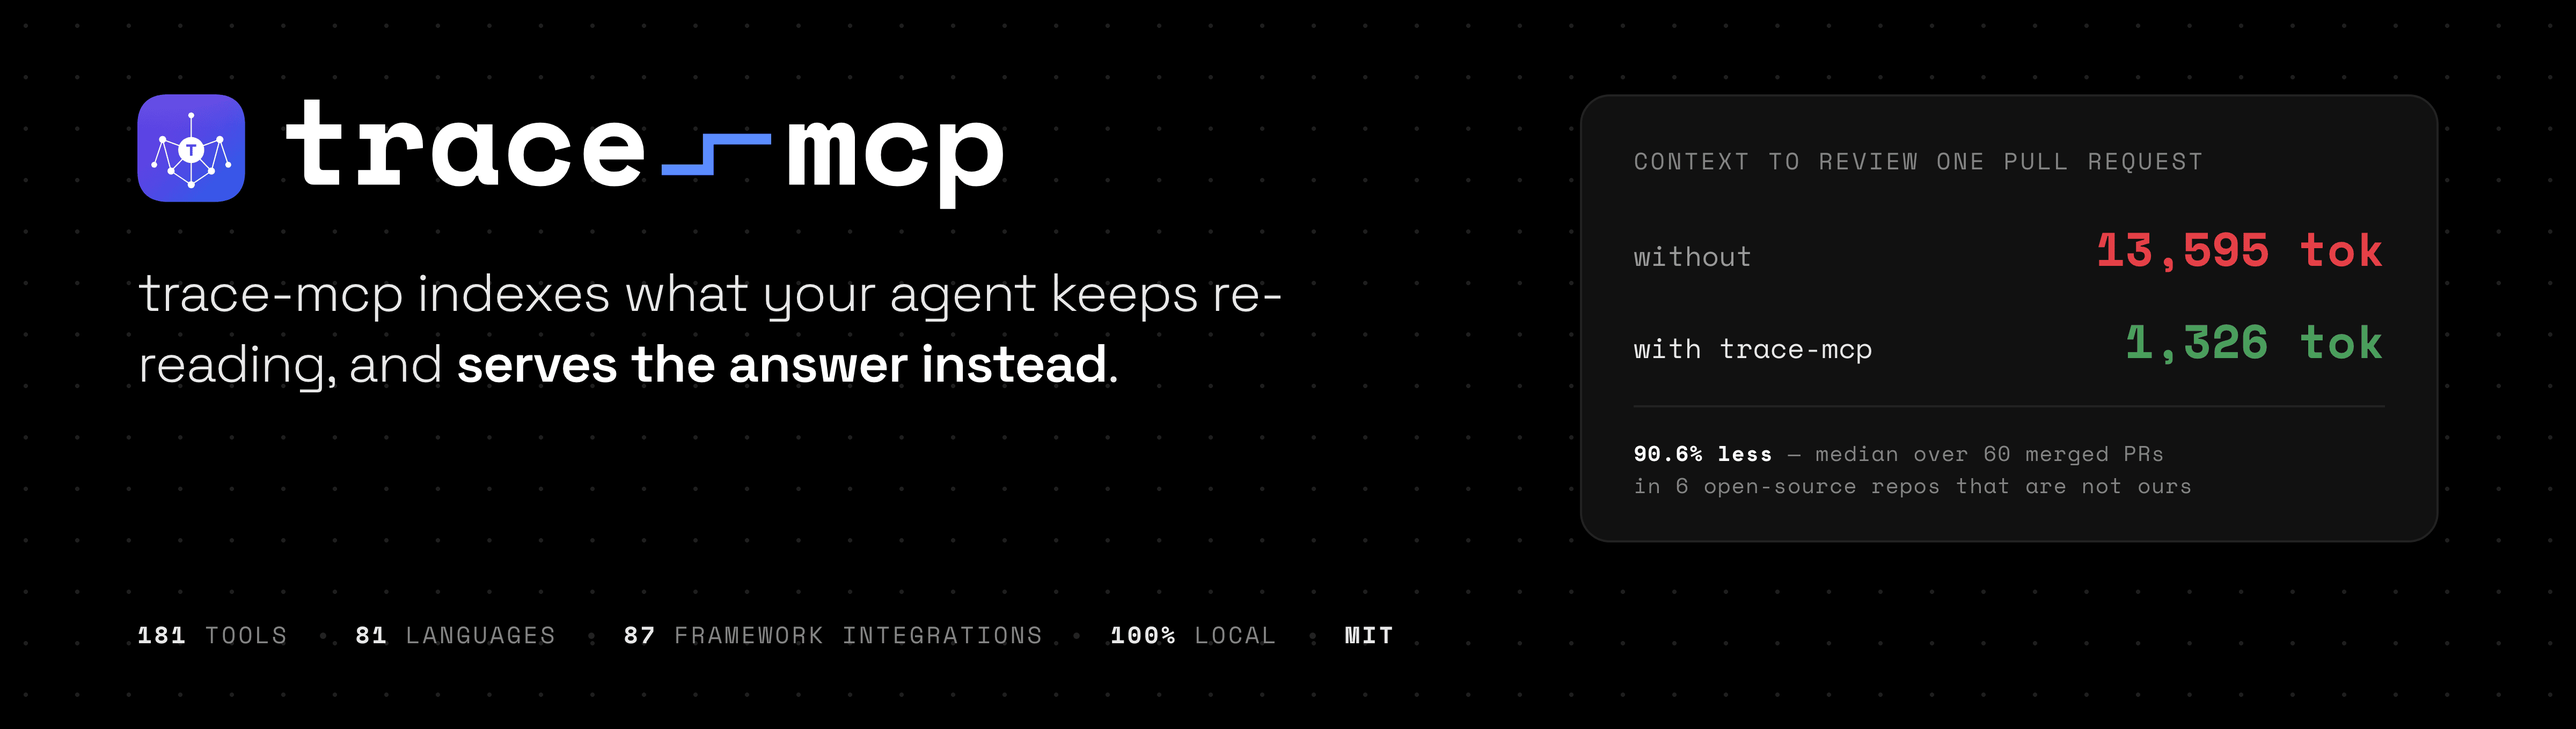
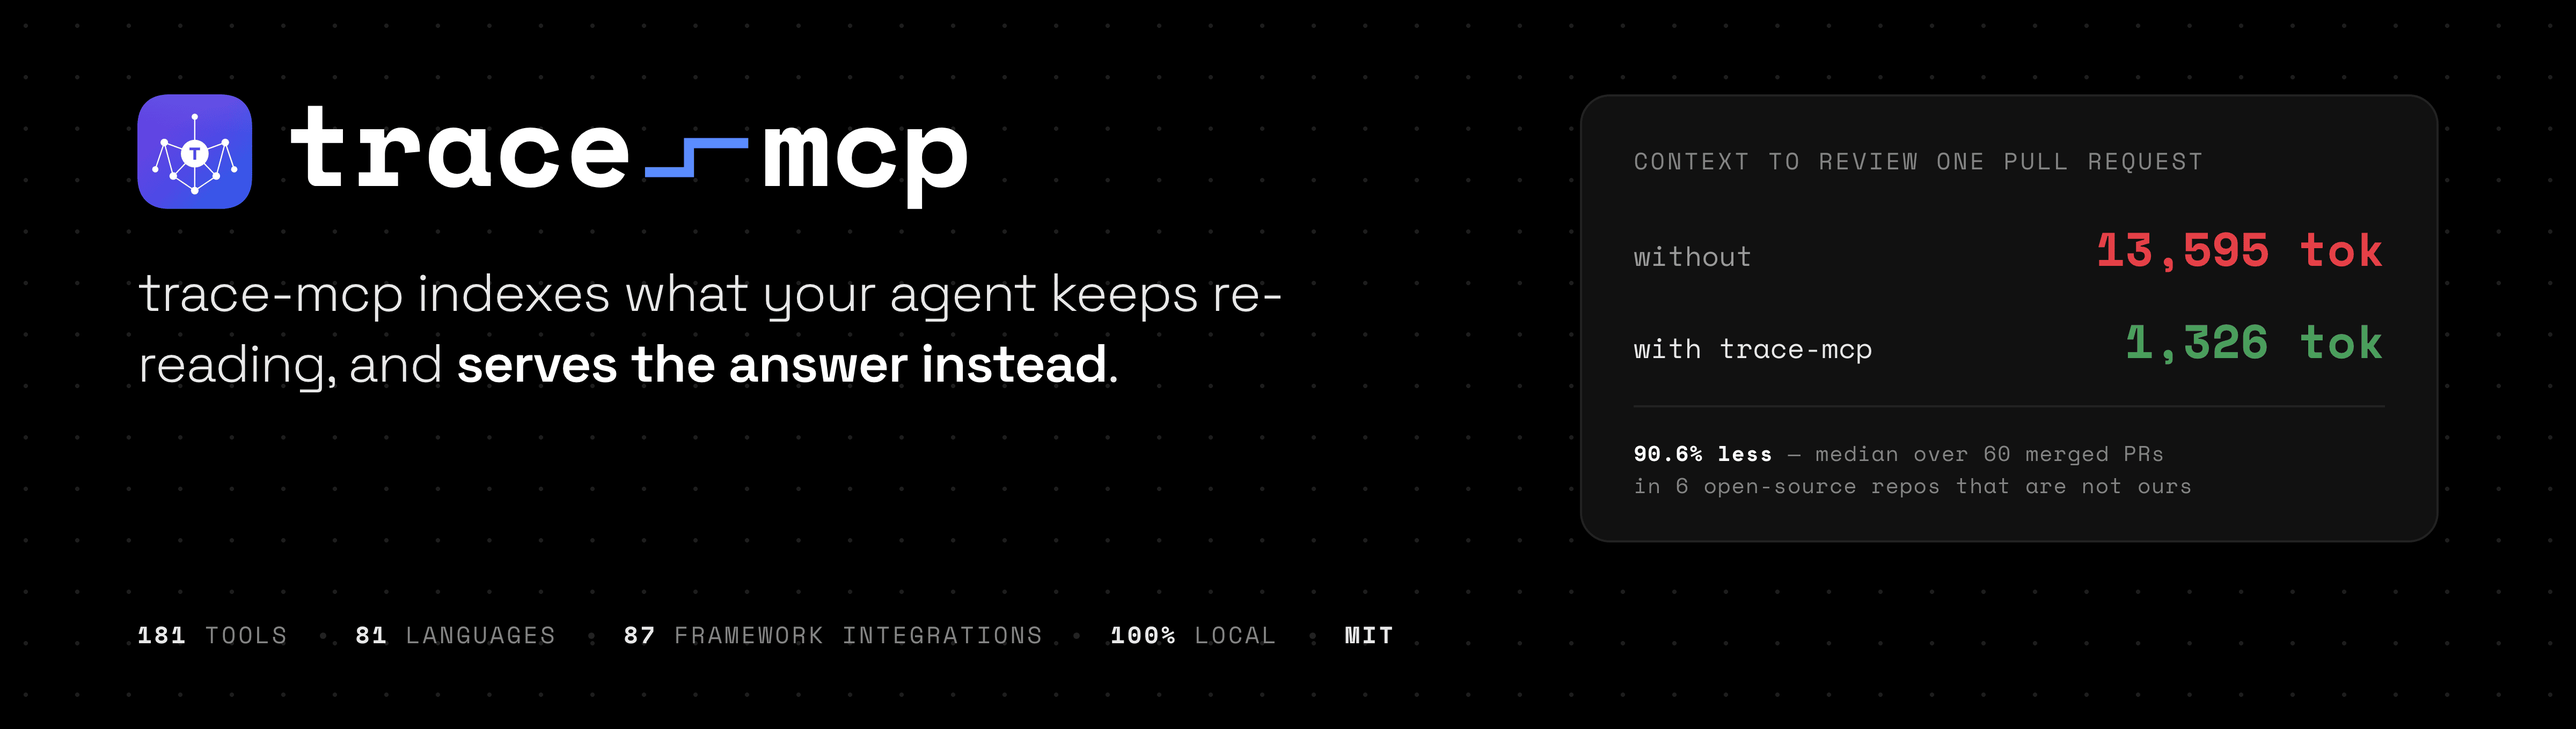
feat(docs): the row lockup's mark is one em, so the word reads smaller beside it
Nikolai asked for a bigger mark and a smaller word in the horizontal lockup.
Both are the same knob: the lockup is placed by height, so growing the mark
against a fixed em shrinks the word at any given size.

The mark goes 885 to 1000 — exactly the em box. It shipped at 885 and read light
against a heavy monospaced word; one em is the same relation with one fewer
arbitrary number, and it lands the mark's bottom at -200, on the descender of
`p` at -210. The anchor stays 300 and the gap 275; both were settled on their
own sweeps and this does not reopen them.

Regenerated everywhere it is used: the six lockup SVGs, the inlined copies in
both site headers, and the README banner, which inlines the row lockup.

Agent: Lead Engineer

Changed region(s): [[0.0625, 0.1235, 0.4062, 0.3088]]

diff --git a/docs/_layouts/default.html b/docs/_layouts/default.html
@@ -139,8 +139,8 @@
              localStorage. Generated — never edit by hand:
              node scripts/gen-lockup.mjs -->
         <a class="nav-brand" href="{{ '/' | relative_url }}" aria-label="trace-mcp — home">
-          <svg class="nav-lockup" xmlns="http://www.w3.org/2000/svg" viewBox="0 0 7156 952.5" role="img" aria-label="trace-mcp">
-  <g transform="translate(0 0) scale(0.8642578125)">
+          <svg class="nav-lockup" xmlns="http://www.w3.org/2000/svg" viewBox="0 0 7271 1010" role="img" aria-label="trace-mcp">
+  <g transform="translate(0 0) scale(0.9765625)">
   
 <defs>
 <linearGradient id="inherit-row-plate" x1="0" y1="0" x2="1" y2="1"><stop offset="0%" stop-color="#6C3CE0"/><stop offset="50%" stop-color="#4F46E5"/><stop offset="100%" stop-color="#2563EB"/></linearGradient>
@@ -174,15 +174,15 @@
 </g>
 
   </g>
-  <path d="M288 0Q254 0 232.5 22.0Q211 44 211 78V376H64V496H211V700H337V496H516V376H337V150Q337 120 364 120H498V0Z" transform="translate(1160 742.5) scale(1 -1)" fill="currentColor"/>
-  <path d="M42 0V120H144V376H54V496H264V424H282Q296 465 330.0 487.5Q364 510 410 510Q484 510 529.0 463.5Q574 417 574 322V300L444 288V302Q444 343 423.0 367.5Q402 392 360 392Q318 392 294.0 363.0Q270 334 270 280V120H384V0Z" transform="translate(1772 742.5) scale(1 -1)" fill="currentColor"/>
-  <path d="M259 -14Q200 -14 150.0 16.0Q100 46 70.0 103.0Q40 160 40 240V256Q40 335 69.0 392.0Q98 449 146.5 479.5Q195 510 253 510Q306 510 338.5 492.0Q371 474 390 436H408V496H534V150Q534 120 561 120H580V0H494Q460 0 438.5 20.5Q417 41 417 72H399Q380 26 343.5 6.0Q307 -14 259 -14ZM287 106Q342 106 375.0 142.5Q408 179 408 242V254Q408 317 375.0 353.5Q342 390 287 390Q232 390 199.0 353.5Q166 317 166 254V242Q166 179 199.0 142.5Q232 106 287 106Z" transform="translate(2384 742.5) scale(1 -1)" fill="currentColor"/>
-  <path d="M312 -14Q239 -14 180.0 15.5Q121 45 86.5 101.5Q52 158 52 238V250Q52 330 87.0 388.5Q122 447 181.0 478.5Q240 510 312 510Q416 510 481.0 456.0Q546 402 562 314L438 282Q432 326 400.0 358.0Q368 390 310 390Q256 390 217.0 352.0Q178 314 178 247V241Q178 174 217.0 140.0Q256 106 310 106Q368 106 398.5 135.0Q429 164 438 213L562 182Q546 94 482.0 40.0Q418 -14 312 -14Z" transform="translate(2996 742.5) scale(1 -1)" fill="currentColor"/>
-  <path d="M311 -14Q237 -14 180.0 17.5Q123 49 91.0 108.0Q59 167 59 250V256Q59 332 93.0 389.0Q127 446 183.5 478.0Q240 510 309 510Q373 510 419.0 488.0Q465 466 494.5 431.0Q524 396 538.5 354.5Q553 313 553 274V207H189Q191 163 226.0 134.5Q261 106 309 106Q356 106 381.5 123.0Q407 140 417 162L525 102Q514 77 488.5 50.0Q463 23 420.0 4.5Q377 -14 311 -14ZM191 315H425Q419 350 387.5 373.0Q356 396 308 396Q261 396 230.5 371.5Q200 347 191 315Z" transform="translate(3608 742.5) scale(1 -1)" fill="currentColor"/>
-  <path d="M36 0V496H162V448H180Q186 475 208.0 492.5Q230 510 264 510Q297 510 320.5 492.5Q344 475 351 448H369Q377 475 403.0 492.5Q429 510 466 510Q516 510 546.0 476.5Q576 443 576 384V0H450V348Q450 369 439.5 379.5Q429 390 412 390Q393 390 381.0 378.0Q369 366 369 342V0H243V348Q243 369 231.5 379.5Q220 390 204 390Q186 390 174.0 378.0Q162 366 162 342V0Z" transform="translate(5320 742.5) scale(1 -1)" fill="currentColor"/>
-  <path d="M312 -14Q239 -14 180.0 15.5Q121 45 86.5 101.5Q52 158 52 238V250Q52 330 87.0 388.5Q122 447 181.0 478.5Q240 510 312 510Q416 510 481.0 456.0Q546 402 562 314L438 282Q432 326 400.0 358.0Q368 390 310 390Q256 390 217.0 352.0Q178 314 178 247V241Q178 174 217.0 140.0Q256 106 310 106Q368 106 398.5 135.0Q429 164 438 213L562 182Q546 94 482.0 40.0Q418 -14 312 -14Z" transform="translate(5932 742.5) scale(1 -1)" fill="currentColor"/>
-  <path d="M52 -200V496H178V424H196Q216 465 254.5 487.5Q293 510 351 510Q410 510 459.0 480.0Q508 450 538.0 393.5Q568 337 568 257V239Q568 158 539.0 101.5Q510 45 461.0 15.5Q412 -14 351 -14Q284 -14 248.5 12.5Q213 39 196 72H178V-200ZM310 106Q369 106 405.5 143.0Q442 180 442 242V254Q442 316 405.5 353.0Q369 390 310 390Q252 390 215.0 352.5Q178 315 178 254V242Q178 181 215.0 143.5Q252 106 310 106Z" transform="translate(6544 742.5) scale(1 -1)" fill="currentColor"/>
-  <path d="M 4308,621 H 4691 V 368 H 5208" stroke="var(--accent, #5B8CFF)" stroke-width="88" fill="none" stroke-linecap="butt" stroke-linejoin="miter"/>
+  <path d="M288 0Q254 0 232.5 22.0Q211 44 211 78V376H64V496H211V700H337V496H516V376H337V150Q337 120 364 120H498V0Z" transform="translate(1275 800) scale(1 -1)" fill="currentColor"/>
+  <path d="M42 0V120H144V376H54V496H264V424H282Q296 465 330.0 487.5Q364 510 410 510Q484 510 529.0 463.5Q574 417 574 322V300L444 288V302Q444 343 423.0 367.5Q402 392 360 392Q318 392 294.0 363.0Q270 334 270 280V120H384V0Z" transform="translate(1887 800) scale(1 -1)" fill="currentColor"/>
+  <path d="M259 -14Q200 -14 150.0 16.0Q100 46 70.0 103.0Q40 160 40 240V256Q40 335 69.0 392.0Q98 449 146.5 479.5Q195 510 253 510Q306 510 338.5 492.0Q371 474 390 436H408V496H534V150Q534 120 561 120H580V0H494Q460 0 438.5 20.5Q417 41 417 72H399Q380 26 343.5 6.0Q307 -14 259 -14ZM287 106Q342 106 375.0 142.5Q408 179 408 242V254Q408 317 375.0 353.5Q342 390 287 390Q232 390 199.0 353.5Q166 317 166 254V242Q166 179 199.0 142.5Q232 106 287 106Z" transform="translate(2499 800) scale(1 -1)" fill="currentColor"/>
+  <path d="M312 -14Q239 -14 180.0 15.5Q121 45 86.5 101.5Q52 158 52 238V250Q52 330 87.0 388.5Q122 447 181.0 478.5Q240 510 312 510Q416 510 481.0 456.0Q546 402 562 314L438 282Q432 326 400.0 358.0Q368 390 310 390Q256 390 217.0 352.0Q178 314 178 247V241Q178 174 217.0 140.0Q256 106 310 106Q368 106 398.5 135.0Q429 164 438 213L562 182Q546 94 482.0 40.0Q418 -14 312 -14Z" transform="translate(3111 800) scale(1 -1)" fill="currentColor"/>
+  <path d="M311 -14Q237 -14 180.0 17.5Q123 49 91.0 108.0Q59 167 59 250V256Q59 332 93.0 389.0Q127 446 183.5 478.0Q240 510 309 510Q373 510 419.0 488.0Q465 466 494.5 431.0Q524 396 538.5 354.5Q553 313 553 274V207H189Q191 163 226.0 134.5Q261 106 309 106Q356 106 381.5 123.0Q407 140 417 162L525 102Q514 77 488.5 50.0Q463 23 420.0 4.5Q377 -14 311 -14ZM191 315H425Q419 350 387.5 373.0Q356 396 308 396Q261 396 230.5 371.5Q200 347 191 315Z" transform="translate(3723 800) scale(1 -1)" fill="currentColor"/>
+  <path d="M36 0V496H162V448H180Q186 475 208.0 492.5Q230 510 264 510Q297 510 320.5 492.5Q344 475 351 448H369Q377 475 403.0 492.5Q429 510 466 510Q516 510 546.0 476.5Q576 443 576 384V0H450V348Q450 369 439.5 379.5Q429 390 412 390Q393 390 381.0 378.0Q369 366 369 342V0H243V348Q243 369 231.5 379.5Q220 390 204 390Q186 390 174.0 378.0Q162 366 162 342V0Z" transform="translate(5435 800) scale(1 -1)" fill="currentColor"/>
+  <path d="M312 -14Q239 -14 180.0 15.5Q121 45 86.5 101.5Q52 158 52 238V250Q52 330 87.0 388.5Q122 447 181.0 478.5Q240 510 312 510Q416 510 481.0 456.0Q546 402 562 314L438 282Q432 326 400.0 358.0Q368 390 310 390Q256 390 217.0 352.0Q178 314 178 247V241Q178 174 217.0 140.0Q256 106 310 106Q368 106 398.5 135.0Q429 164 438 213L562 182Q546 94 482.0 40.0Q418 -14 312 -14Z" transform="translate(6047 800) scale(1 -1)" fill="currentColor"/>
+  <path d="M52 -200V496H178V424H196Q216 465 254.5 487.5Q293 510 351 510Q410 510 459.0 480.0Q508 450 538.0 393.5Q568 337 568 257V239Q568 158 539.0 101.5Q510 45 461.0 15.5Q412 -14 351 -14Q284 -14 248.5 12.5Q213 39 196 72H178V-200ZM310 106Q369 106 405.5 143.0Q442 180 442 242V254Q442 316 405.5 353.0Q369 390 310 390Q252 390 215.0 352.5Q178 315 178 254V242Q178 181 215.0 143.5Q252 106 310 106Z" transform="translate(6659 800) scale(1 -1)" fill="currentColor"/>
+  <path d="M 4423,678.5 H 4806 V 425.5 H 5323" stroke="var(--accent, #5B8CFF)" stroke-width="88" fill="none" stroke-linecap="butt" stroke-linejoin="miter"/>
 </svg>
         </a>
         <button type="button" class="theme-toggle" role="switch" aria-label="Toggle color theme" data-theme-toggle>

diff --git a/docs/index.html b/docs/index.html
@@ -2207,8 +2207,8 @@ updated: 2026-09-06
          lockup has to be inlined here too — DESIGN-WEB §1b. Generated; never
          edit by hand: node scripts/gen-lockup.mjs -->
     <a href="{{ '/' | relative_url }}" class="nav-brand" aria-label="trace-mcp — home">
-      <svg class="nav-lockup" xmlns="http://www.w3.org/2000/svg" viewBox="0 0 7156 952.5" role="img" aria-label="trace-mcp">
-  <g transform="translate(0 0) scale(0.8642578125)">
+      <svg class="nav-lockup" xmlns="http://www.w3.org/2000/svg" viewBox="0 0 7271 1010" role="img" aria-label="trace-mcp">
+  <g transform="translate(0 0) scale(0.9765625)">
   
 <defs>
 <linearGradient id="inherit-row-plate" x1="0" y1="0" x2="1" y2="1"><stop offset="0%" stop-color="#6C3CE0"/><stop offset="50%" stop-color="#4F46E5"/><stop offset="100%" stop-color="#2563EB"/></linearGradient>
@@ -2242,15 +2242,15 @@ updated: 2026-09-06
 </g>
 
   </g>
-  <path d="M288 0Q254 0 232.5 22.0Q211 44 211 78V376H64V496H211V700H337V496H516V376H337V150Q337 120 364 120H498V0Z" transform="translate(1160 742.5) scale(1 -1)" fill="currentColor"/>
-  <path d="M42 0V120H144V376H54V496H264V424H282Q296 465 330.0 487.5Q364 510 410 510Q484 510 529.0 463.5Q574 417 574 322V300L444 288V302Q444 343 423.0 367.5Q402 392 360 392Q318 392 294.0 363.0Q270 334 270 280V120H384V0Z" transform="translate(1772 742.5) scale(1 -1)" fill="currentColor"/>
-  <path d="M259 -14Q200 -14 150.0 16.0Q100 46 70.0 103.0Q40 160 40 240V256Q40 335 69.0 392.0Q98 449 146.5 479.5Q195 510 253 510Q306 510 338.5 492.0Q371 474 390 436H408V496H534V150Q534 120 561 120H580V0H494Q460 0 438.5 20.5Q417 41 417 72H399Q380 26 343.5 6.0Q307 -14 259 -14ZM287 106Q342 106 375.0 142.5Q408 179 408 242V254Q408 317 375.0 353.5Q342 390 287 390Q232 390 199.0 353.5Q166 317 166 254V242Q166 179 199.0 142.5Q232 106 287 106Z" transform="translate(2384 742.5) scale(1 -1)" fill="currentColor"/>
-  <path d="M312 -14Q239 -14 180.0 15.5Q121 45 86.5 101.5Q52 158 52 238V250Q52 330 87.0 388.5Q122 447 181.0 478.5Q240 510 312 510Q416 510 481.0 456.0Q546 402 562 314L438 282Q432 326 400.0 358.0Q368 390 310 390Q256 390 217.0 352.0Q178 314 178 247V241Q178 174 217.0 140.0Q256 106 310 106Q368 106 398.5 135.0Q429 164 438 213L562 182Q546 94 482.0 40.0Q418 -14 312 -14Z" transform="translate(2996 742.5) scale(1 -1)" fill="currentColor"/>
-  <path d="M311 -14Q237 -14 180.0 17.5Q123 49 91.0 108.0Q59 167 59 250V256Q59 332 93.0 389.0Q127 446 183.5 478.0Q240 510 309 510Q373 510 419.0 488.0Q465 466 494.5 431.0Q524 396 538.5 354.5Q553 313 553 274V207H189Q191 163 226.0 134.5Q261 106 309 106Q356 106 381.5 123.0Q407 140 417 162L525 102Q514 77 488.5 50.0Q463 23 420.0 4.5Q377 -14 311 -14ZM191 315H425Q419 350 387.5 373.0Q356 396 308 396Q261 396 230.5 371.5Q200 347 191 315Z" transform="translate(3608 742.5) scale(1 -1)" fill="currentColor"/>
-  <path d="M36 0V496H162V448H180Q186 475 208.0 492.5Q230 510 264 510Q297 510 320.5 492.5Q344 475 351 448H369Q377 475 403.0 492.5Q429 510 466 510Q516 510 546.0 476.5Q576 443 576 384V0H450V348Q450 369 439.5 379.5Q429 390 412 390Q393 390 381.0 378.0Q369 366 369 342V0H243V348Q243 369 231.5 379.5Q220 390 204 390Q186 390 174.0 378.0Q162 366 162 342V0Z" transform="translate(5320 742.5) scale(1 -1)" fill="currentColor"/>
-  <path d="M312 -14Q239 -14 180.0 15.5Q121 45 86.5 101.5Q52 158 52 238V250Q52 330 87.0 388.5Q122 447 181.0 478.5Q240 510 312 510Q416 510 481.0 456.0Q546 402 562 314L438 282Q432 326 400.0 358.0Q368 390 310 390Q256 390 217.0 352.0Q178 314 178 247V241Q178 174 217.0 140.0Q256 106 310 106Q368 106 398.5 135.0Q429 164 438 213L562 182Q546 94 482.0 40.0Q418 -14 312 -14Z" transform="translate(5932 742.5) scale(1 -1)" fill="currentColor"/>
-  <path d="M52 -200V496H178V424H196Q216 465 254.5 487.5Q293 510 351 510Q410 510 459.0 480.0Q508 450 538.0 393.5Q568 337 568 257V239Q568 158 539.0 101.5Q510 45 461.0 15.5Q412 -14 351 -14Q284 -14 248.5 12.5Q213 39 196 72H178V-200ZM310 106Q369 106 405.5 143.0Q442 180 442 242V254Q442 316 405.5 353.0Q369 390 310 390Q252 390 215.0 352.5Q178 315 178 254V242Q178 181 215.0 143.5Q252 106 310 106Z" transform="translate(6544 742.5) scale(1 -1)" fill="currentColor"/>
-  <path d="M 4308,621 H 4691 V 368 H 5208" stroke="var(--accent, #5B8CFF)" stroke-width="88" fill="none" stroke-linecap="butt" stroke-linejoin="miter"/>
+  <path d="M288 0Q254 0 232.5 22.0Q211 44 211 78V376H64V496H211V700H337V496H516V376H337V150Q337 120 364 120H498V0Z" transform="translate(1275 800) scale(1 -1)" fill="currentColor"/>
+  <path d="M42 0V120H144V376H54V496H264V424H282Q296 465 330.0 487.5Q364 510 410 510Q484 510 529.0 463.5Q574 417 574 322V300L444 288V302Q444 343 423.0 367.5Q402 392 360 392Q318 392 294.0 363.0Q270 334 270 280V120H384V0Z" transform="translate(1887 800) scale(1 -1)" fill="currentColor"/>
+  <path d="M259 -14Q200 -14 150.0 16.0Q100 46 70.0 103.0Q40 160 40 240V256Q40 335 69.0 392.0Q98 449 146.5 479.5Q195 510 253 510Q306 510 338.5 492.0Q371 474 390 436H408V496H534V150Q534 120 561 120H580V0H494Q460 0 438.5 20.5Q417 41 417 72H399Q380 26 343.5 6.0Q307 -14 259 -14ZM287 106Q342 106 375.0 142.5Q408 179 408 242V254Q408 317 375.0 353.5Q342 390 287 390Q232 390 199.0 353.5Q166 317 166 254V242Q166 179 199.0 142.5Q232 106 287 106Z" transform="translate(2499 800) scale(1 -1)" fill="currentColor"/>
+  <path d="M312 -14Q239 -14 180.0 15.5Q121 45 86.5 101.5Q52 158 52 238V250Q52 330 87.0 388.5Q122 447 181.0 478.5Q240 510 312 510Q416 510 481.0 456.0Q546 402 562 314L438 282Q432 326 400.0 358.0Q368 390 310 390Q256 390 217.0 352.0Q178 314 178 247V241Q178 174 217.0 140.0Q256 106 310 106Q368 106 398.5 135.0Q429 164 438 213L562 182Q546 94 482.0 40.0Q418 -14 312 -14Z" transform="translate(3111 800) scale(1 -1)" fill="currentColor"/>
+  <path d="M311 -14Q237 -14 180.0 17.5Q123 49 91.0 108.0Q59 167 59 250V256Q59 332 93.0 389.0Q127 446 183.5 478.0Q240 510 309 510Q373 510 419.0 488.0Q465 466 494.5 431.0Q524 396 538.5 354.5Q553 313 553 274V207H189Q191 163 226.0 134.5Q261 106 309 106Q356 106 381.5 123.0Q407 140 417 162L525 102Q514 77 488.5 50.0Q463 23 420.0 4.5Q377 -14 311 -14ZM191 315H425Q419 350 387.5 373.0Q356 396 308 396Q261 396 230.5 371.5Q200 347 191 315Z" transform="translate(3723 800) scale(1 -1)" fill="currentColor"/>
+  <path d="M36 0V496H162V448H180Q186 475 208.0 492.5Q230 510 264 510Q297 510 320.5 492.5Q344 475 351 448H369Q377 475 403.0 492.5Q429 510 466 510Q516 510 546.0 476.5Q576 443 576 384V0H450V348Q450 369 439.5 379.5Q429 390 412 390Q393 390 381.0 378.0Q369 366 369 342V0H243V348Q243 369 231.5 379.5Q220 390 204 390Q186 390 174.0 378.0Q162 366 162 342V0Z" transform="translate(5435 800) scale(1 -1)" fill="currentColor"/>
+  <path d="M312 -14Q239 -14 180.0 15.5Q121 45 86.5 101.5Q52 158 52 238V250Q52 330 87.0 388.5Q122 447 181.0 478.5Q240 510 312 510Q416 510 481.0 456.0Q546 402 562 314L438 282Q432 326 400.0 358.0Q368 390 310 390Q256 390 217.0 352.0Q178 314 178 247V241Q178 174 217.0 140.0Q256 106 310 106Q368 106 398.5 135.0Q429 164 438 213L562 182Q546 94 482.0 40.0Q418 -14 312 -14Z" transform="translate(6047 800) scale(1 -1)" fill="currentColor"/>
+  <path d="M52 -200V496H178V424H196Q216 465 254.5 487.5Q293 510 351 510Q410 510 459.0 480.0Q508 450 538.0 393.5Q568 337 568 257V239Q568 158 539.0 101.5Q510 45 461.0 15.5Q412 -14 351 -14Q284 -14 248.5 12.5Q213 39 196 72H178V-200ZM310 106Q369 106 405.5 143.0Q442 180 442 242V254Q442 316 405.5 353.0Q369 390 310 390Q252 390 215.0 352.5Q178 315 178 254V242Q178 181 215.0 143.5Q252 106 310 106Z" transform="translate(6659 800) scale(1 -1)" fill="currentColor"/>
+  <path d="M 4423,678.5 H 4806 V 425.5 H 5323" stroke="var(--accent, #5B8CFF)" stroke-width="88" fill="none" stroke-linecap="butt" stroke-linejoin="miter"/>
 </svg>
     </a>
     <div class="nav-status">

diff --git a/tests/docs/lockup.test.ts b/tests/docs/lockup.test.ts
@@ -48,13 +48,16 @@ describe.each(VARIANTS)('lockup %s', (name) => {
 });
 
 describe('lockup geometry', () => {
-  it('places the row mark at 885 with its centre 300 above the baseline', () => {
-    // 232 — the centre of the ink block — reads as hanging, because the block is
-    // dragged down by the descender of `p` while the eye reads the line off the
-    // x-height. 442 lifts the mark clear of the line. 300 is the settled value.
+  it('places the row mark at one em with its centre 300 above the baseline', () => {
+    // The mark is exactly the em box: it shipped at 885 first and read light
+    // against the word, and one em is the same relation with one fewer
+    // arbitrary number — its bottom (-200) lands on the descender of `p` (-210).
+    // The 300 is separate and settled: 232, the centre of the ink block, reads
+    // as hanging because the block is dragged down by that same descender while
+    // the eye reads the line off the x-height; 442 lifts the mark clear of it.
     const svg = read('row-dark');
     const scale = Number(svg.match(/scale\(([\d.]+)\)/)?.[1]);
-    expect(scale).toBeCloseTo(885 / 1024, 5);
+    expect(scale).toBeCloseTo(1000 / 1024, 5);
     // Baseline sits at max(mark top above baseline, ink top) = 300 + 442.5.
     const translateY = Number(svg.match(/translate\(0 ([\d.-]+)\)/)?.[1]);
     expect(translateY).toBeCloseTo(0, 5);

diff --git a/docs/DESIGN-WEB.md b/docs/DESIGN-WEB.md
@@ -346,9 +346,15 @@ scales the whole lockup** and there is no second constant to keep in sync.
 
 | | Row | Stack |
 |---|---|---|
-| mark | `885` tall | `3600` (3.6 em) |
+| mark | `1000` — one em | `3600` (3.6 em) |
 | gap | `275` before the word | `800` under the mark |
 | mark centre | `300` above the baseline | centred on the word |
+
+**Why the mark is exactly one em.** It shipped at `885` and read light against
+the word. One em is the same relation with one fewer arbitrary number, and it
+puts the mark's bottom (`-200`) on the descender of `p` (`-210`). Because the
+lockup is placed by height, a larger mark also makes the word smaller at any
+given size — which is what was asked for.
 
 **Why 300 and not the centre of the ink.** Centring the mark on the word's ink
 block puts it at `232` — and it reads as hanging, because the ink block is
